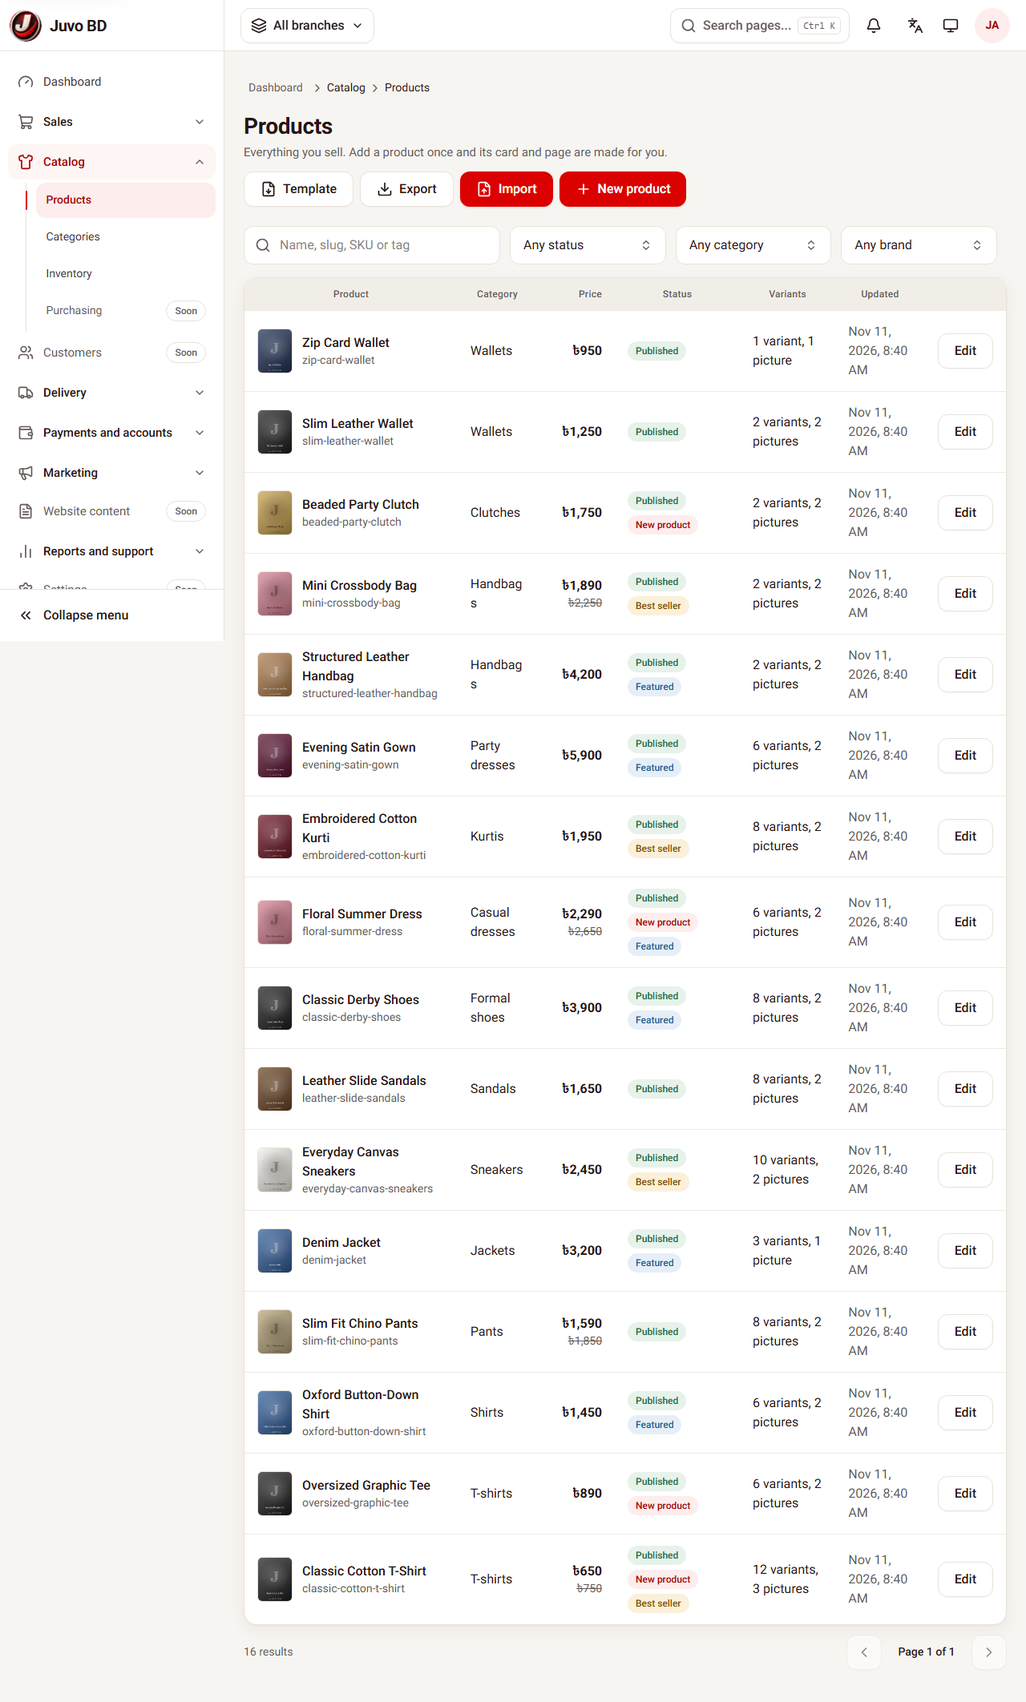
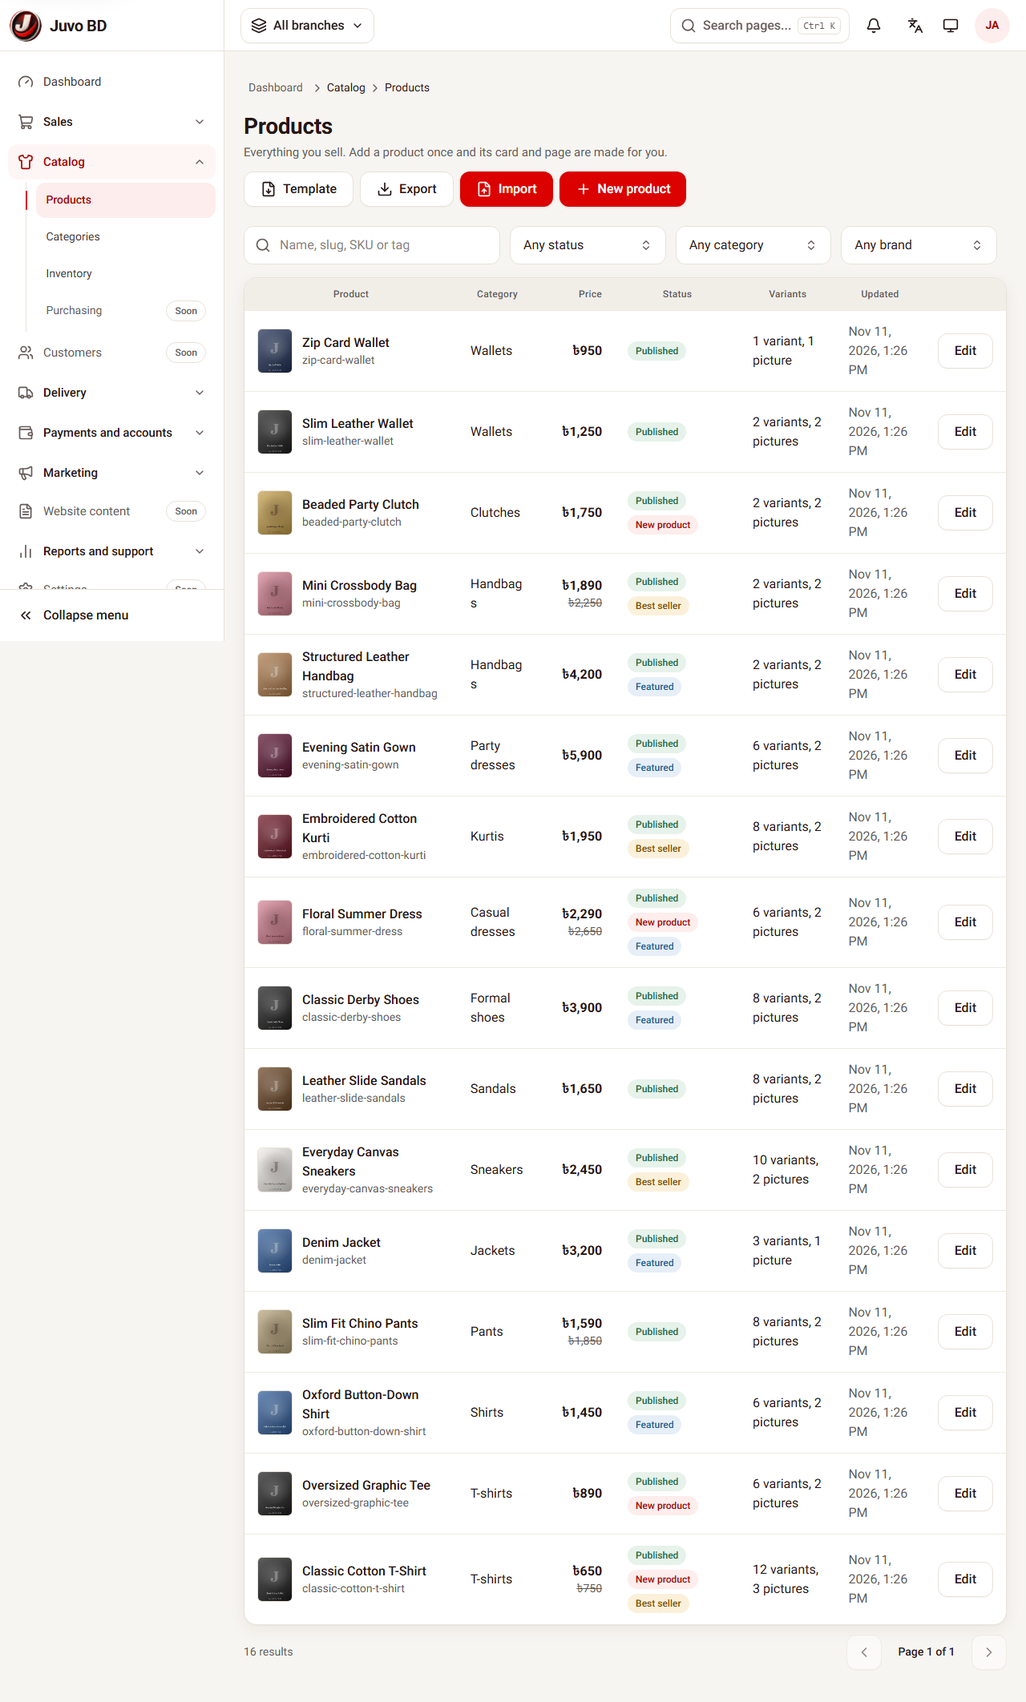
docs: record Step 7 gate result and refresh UI check screenshots

diff --git a/docs/understanding.md b/docs/understanding.md
@@ -409,16 +409,17 @@ Generated from `docs/source/brd-srs.md` by `scripts/gen_traceability.py` (257 FR
 | ID | Requirement | Pri | Step | Status | Implemented in (file / endpoint / page) | Notes |
 | --- | --- | --- | --- | --- | --- | --- |
 | FR-A01 | Home page with hero slider (admin-managed), featured categories, New Arrivals, Best Sellers, Sale section, brand story strip, social links,… | M | 7 | Not started | | |
-| FR-A02 | Category pages (Clothing, Shoes, Ladies' Dresses, Purses, and any category the admin adds) with sub-categories | M | 7 | Partial | API `GET /store/categories`, `/store/products?category=` | Backend of Step 7-a; pages in 7-b. |
-| FR-A03 | Product grid shows auto-designed premium cards (section 3.4); infinite scroll or "Load more" | M | 7 | Partial | API `GET /store/products` (paged cards with price, badges, swatches, sizes) | Backend only; the page is in 7-b. |
-| FR-A04 | Filters: category, price range, size, colour, brand, availability, discount; sort: newest, price low-high, price high-low, popularity | M | 7 | Partial | API `GET /store/products` filters category, price, size, colour, brand, inStock, onSale; sort newest, price-asc, price-desc, popular; `/products/facets` | Backend of Step 7-a; filter panel in 7-b. |
-| FR-A05 | Search with suggestions by name, category and SKU; tolerant of small spelling mistakes (Should) | M | 7 | Partial | API `GET /store/products?q=` (tolerates small spelling mistakes), `/store/search/suggest` | Name, tagline, tags, brand, category; SKU search not exposed publicly. UI in 7-b. |
-| FR-A06 | Product detail page: image gallery with zoom and swipe, optional video, variant selectors (colour, size), live stock note, price, delivery… | M | 7 | Partial | API `GET /store/products/{slug}` (variants with capped availability, pictures, size chart, related) | Backend only; the page is in 7-b. |
+| FR-A02 | Category pages (Clothing, Shoes, Ladies' Dresses, Purses, and any category the admin adds) with sub-categories | M | 7 | Done | API `GET /store/categories`, `/store/products?category=` | Backend of Step 7-a; pages in 7-b.  Front end: `src/modules/store`, `cart`, `myaccount` (Step 7-b); e2e store/cart/myaccount specs. |
+| FR-A03 | Product grid shows auto-designed premium cards (section 3.4); infinite scroll or "Load more" | M | 7 | Done | API `GET /store/products` (paged cards with price, badges, swatches, sizes) | Backend only; the page is in 7-b.  Front end: `src/modules/store`, `cart`, `myaccount` (Step 7-b); e2e store/cart/myaccount specs. |
+| FR-A04 | Filters: category, price range, size, colour, brand, availability, discount; sort: newest, price low-high, price high-low, popularity | M | 7 | Done | API `GET /store/products` filters category, price, size, colour, brand, inStock, onSale; sort newest, price-asc, price-desc, popular; `/products/facets` | Backend of Step 7-a; filter panel in 7-b.  Front end: `src/modules/store`, `cart`, `myaccount` (Step 7-b); e2e store/cart/myaccount specs. |
+| FR-A05 | Search with suggestions by name, category and SKU; tolerant of small spelling mistakes (Should) | M | 7 | Done | API `GET /store/products?q=` (tolerates small spelling mistakes), `/store/search/suggest` | Name, tagline, tags, brand, category; SKU search not exposed publicly. UI in 7-b.  Front end: `src/modules/store`, `cart`, `myaccount` (Step 7-b); e2e store/cart/myaccount specs. |
+| FR-A06 | Product detail page: image gallery with zoom and swipe, optional video, variant selectors (colour, size), live stock note, price, delivery… | M | 7 | Done | API `GET /store/products/{slug}` (variants with capped availability, pictures, size chart, related) | Backend only; the page is in 7-b.  Front end: `src/modules/store`, `cart`, `myaccount` (Step 7-b); e2e store/cart/myaccount specs. |
 | FR-A07 | Size guide popup per category (admin-editable table) | S | 7 | Not started | | |
 | FR-A08 | "Notify me when available" for sold-out variants (mobile or email) | S | 7 | Not started | | |
-| FR-A09 | Recently viewed products | C | 7 | Not started | | |
+| FR-A09 | Recently viewed products | C | 7 | Done | `src/modules/store/recently-viewed.tsx` | Browser storage only (Step 7-b). |
+
 | FR-A10 | Share product to Facebook, WhatsApp, copy link; clean URLs and social preview image | M | 7 | Not started | | |
-| FR-A11 | Language switch English / Bengali; currency display BDT, with optional conversion for international visitors | S | 7 | Not started | | |
+| FR-A11 | Language switch English / Bengali; currency display BDT, with optional conversion for international visitors | S | 7 | Partial | |  Step 7-b front end added (language switch, map pin with Use my location, cart page, account dashboard); address search and BDT conversion not built. |
 | FR-A12 | Customer-visible reviews with star rating and photos (only verified buyers can review) | S | 7 | Not started | | |
 | FR-B01 | Create/edit product: name (EN + optional BN), slug, category, sub-category, brand, short and long description, material, care, tags, gender… | M | 6 | Done | `/admin/products/new`, `/admin/products/{id}` (ProductEditor, ProductDetailsForm); API `/api/v1/catalog/products` | Steps 6-a and 6-e. |
 | FR-B02 | Variants: colour and size combinations, each with its own SKU, price override, stock quantity, barcode (optional), weight override | M | 6 | Done | Variants tab (ProductVariants: add, edit, remove, colour x size generator); stock quantity per branch in the stock grid | Step 6-e. |
@@ -434,11 +435,11 @@ Generated from `docs/source/brd-srs.md` by `scripts/gen_traceability.py` (257 FR
 | FR-B12 | Mark product as New, Featured, Best seller (manual or automatic rules) | M | 6 | Done | Labels card of the product form (New, Featured, Best seller; manual) | Automatic rules not built. |
 | FR-B13 | Product SEO fields: meta title, description, social image | S | 6 | Partial | Search and sharing tab (page title, description) | Social share image upload is not in the UI yet. |
 | FR-B14 | Every product change is written to the audit log (who, what, when, old/new) | M | 6 | Done | Audit interceptor; viewable in `/admin/ums/audit` | Step 6-a. |
-| FR-C01 | Add to cart from card (quick add) or product page with required variant selection | M | 7 | Partial | API `POST /store/cart/items` (variant and quantity) | Backend of Step 7-a; buttons in 7-b. |
-| FR-C02 | Cart drawer and full cart page: change quantity, remove, see line totals, subtotal, estimated delivery, coupon field | M | 7 | Partial | API `GET/PUT/DELETE /store/cart/*`, coupon, `/store/cart/delivery-quote` | Backend only; drawer and page in 7-b. |
-| FR-C03 | Cart is kept for guests (browser storage + server session) and merged into the account after sign-in | M | 7 | Partial | Guest cart by `X-Cart-Token` (hash stored), `POST /store/cart/merge` after sign-in | Backend of Step 7-a; the browser keeps the token in 7-b. |
-| FR-C04 | Quantity limited to available stock; clear message if stock changed since adding | M | 7 | Partial | CartService re-checks availability on every read (`REDUCED`, `OUT_OF_STOCK`, price-changed marker) | Backend of Step 7-a; messages in 7-b. |
-| FR-C05 | Wishlist (heart): guests keep it on the device; signed-in users keep it on the account; move wishlist item to cart | S | 7 | Partial | API `/me/wishlist` and `move-to-cart` (signed-in customers) | Guest wishlist on the device is front-end work in 7-b. |
+| FR-C01 | Add to cart from card (quick add) or product page with required variant selection | M | 7 | Done | API `POST /store/cart/items` (variant and quantity) | Backend of Step 7-a; buttons in 7-b.  Front end: `src/modules/store`, `cart`, `myaccount` (Step 7-b); e2e store/cart/myaccount specs. |
+| FR-C02 | Cart drawer and full cart page: change quantity, remove, see line totals, subtotal, estimated delivery, coupon field | M | 7 | Partial | API `GET/PUT/DELETE /store/cart/*`, coupon, `/store/cart/delivery-quote` | Backend only; drawer and page in 7-b.  Step 7-b front end added (language switch, map pin with Use my location, cart page, account dashboard); address search and BDT conversion not built. |
+| FR-C03 | Cart is kept for guests (browser storage + server session) and merged into the account after sign-in | M | 7 | Done | Guest cart by `X-Cart-Token` (hash stored), `POST /store/cart/merge` after sign-in | Backend of Step 7-a; the browser keeps the token in 7-b.  Front end: `src/modules/store`, `cart`, `myaccount` (Step 7-b); e2e store/cart/myaccount specs. |
+| FR-C04 | Quantity limited to available stock; clear message if stock changed since adding | M | 7 | Done | CartService re-checks availability on every read (`REDUCED`, `OUT_OF_STOCK`, price-changed marker) | Backend of Step 7-a; messages in 7-b.  Front end: `src/modules/store`, `cart`, `myaccount` (Step 7-b); e2e store/cart/myaccount specs. |
+| FR-C05 | Wishlist (heart): guests keep it on the device; signed-in users keep it on the account; move wishlist item to cart | S | 7 | Done | API `/me/wishlist` and `move-to-cart` (signed-in customers) | Guest wishlist on the device is front-end work in 7-b.  Front end: `src/modules/store`, `cart`, `myaccount` (Step 7-b); e2e store/cart/myaccount specs. |
 | FR-C06 | Abandoned cart reminder by SMS/email when mobile or email is known (admin can turn on) | C | 7 | Not started | | |
 | FR-C07 | Coupon codes: percentage or fixed, minimum order, expiry, usage limit | S | 7 | Done | Coupons: `/promotions/coupons` (staff), `/store/coupons/validate`, `/store/cart/coupon` | Percentage or fixed, minimum order, dates, usage limit. Use count rises in Step 8; admin screen in 7-b. |
 | FR-D01 | Checkout works with no account: mobile number plus the basic details (name, address, delivery area) are enough | M | 8 | Not started | | |
@@ -459,15 +460,15 @@ Generated from `docs/source/brd-srs.md` by `scripts/gen_traceability.py` (257 FR
 | FR-E04 | Sign-in options: mobile + OTP (default), email + OTP, email/mobile + password (if set), Google sign-in (Could) | M | 7 | Partial | POST /api/v1/auth/otp/request and /verify by mobile (SMS) or email | Password and Google sign-in later. |
 | FR-E05 | OTP rules: 6 digits, expires in 5 minutes, limited attempts and resend cooldown, rate-limited per number and device | M | 7 | Done | CustomerAuthService, OtpCode, rate limit policy otp | 6 digits, 5 min, 5 attempts, 60 s cooldown, hourly cap; tested. |
 | FR-E06 | Progressive profile: ask for extra fields one at a time later, never block an order for them | S | 7 | Not started | | |
-| FR-E07 | Consent checkboxes for marketing SMS/email, stored with timestamp; transactional messages always allowed | M | 7 | Partial | API `GET/PUT /me/consent` (timestamped log) | Checkbox UI in 7-b. |
+| FR-E07 | Consent checkboxes for marketing SMS/email, stored with timestamp; transactional messages always allowed | M | 7 | Done | API `GET/PUT /me/consent` (timestamped log) | Checkbox UI in 7-b.  Front end: `src/modules/store`, `cart`, `myaccount` (Step 7-b); e2e store/cart/myaccount specs. |
 | FR-E08 | Customer can delete their account; order records are kept in anonymised form for legal and accounting needs | S | 7 | Not started | | |
 | FR-E09 | Fraud signals: many orders from one device with different numbers, repeated fake/returned COD, flagged for admin review | C | 7 | Not started | | |
-| FR-F01 | Dashboard: active orders with live status, recent orders, wishlist preview, saved addresses | M | 7-8 | Partial | API `GET /me/summary`, `/me/addresses`, `/me/wishlist` | Orders part in Step 8; UI in 7-b. |
+| FR-F01 | Dashboard: active orders with live status, recent orders, wishlist preview, saved addresses | M | 7-8 | Partial | API `GET /me/summary`, `/me/addresses`, `/me/wishlist` | Orders part in Step 8; UI in 7-b.  Step 7-b front end added (language switch, map pin with Use my location, cart page, account dashboard); address search and BDT conversion not built. |
 | FR-F02 | My Orders: list with filters (active, delivered, cancelled, returned); order detail with items, amounts, payment status, delivery timeline,… | M | 8 | Not started | | |
 | FR-F03 | Live order tracking page with timeline and map-style progress (module J) | M | 10 | Not started | | |
 | FR-F04 | Cancel an order while allowed (before courier pickup); request a return within the return window (module L) | M | 8 | Not started | | |
-| FR-F05 | Address book: add, edit, delete, set default; each address with a pinned map location | M | 7-8 | Partial | API `/me/addresses` (add, edit, delete, default; optional latitude and longitude) | Map picker UI in 7-b. |
-| FR-F06 | Profile: name, mobile, email, photo, password, language, notification preferences | M | 7-8 | Partial | API `GET/PUT /me` (name, email) | Photo, password, language and notification preferences later. |
+| FR-F05 | Address book: add, edit, delete, set default; each address with a pinned map location | M | 7-8 | Done | API `/me/addresses` (add, edit, delete, default; optional latitude and longitude) | Map picker UI in 7-b.  Front end: `src/modules/store`, `cart`, `myaccount` (Step 7-b); e2e store/cart/myaccount specs. |
+| FR-F06 | Profile: name, mobile, email, photo, password, language, notification preferences | M | 7-8 | Partial | API `GET/PUT /me` (name, email) | Photo, password, language and notification preferences later.  Step 7-b front end added (language switch, map pin with Use my location, cart page, account dashboard); address search and BDT conversion not built. |
 | FR-F07 | Reorder: add all items of a past order to cart (checks stock and current price) | S | 7-8 | Not started | | |
 | FR-F08 | Wishlist and back-in-stock requests | S | 7-8 | Partial | API `/me/wishlist` | Back-in-stock requests not built. |
 | FR-F09 | Write a review for delivered items | S | 7-8 | Not started | | |
@@ -475,7 +476,7 @@ Generated from `docs/source/brd-srs.md` by `scripts/gen_traceability.py` (257 FR
 | FR-F11 | Help: contact the shop by phone/WhatsApp/message from an order page | S | 7-8 | Not started | | |
 | FR-G01 | Country selector (all countries; admin can enable/disable countries for shipping) | M | 7 | Partial | API `GET /store/geo/countries`; staff `GET/POST/PUT /delivery/countries` enable and zone | 24 countries seeded (Bangladesh and India enabled); selector UI in 7-b. |
 | FR-G02 | Bangladesh address uses the administrative hierarchy Division, District, Upazila/Thana, Union/Area, then house/road/landmark. Data loaded f… | M | 7 | Partial | API `/store/geo/divisions`, `/districts`, `/districts/{id}/upazilas`; data from nuhil/bangladesh-geocode (MIT) | 8 / 64 / 494 loaded; the union/area level is free text (`area`). |
-| FR-G03 | Map selection: customer searches an address, drops or drags a pin, or taps "Use my current location"; system fills address fields from the… | M | 7 | Not started | | |
+| FR-G03 | Map selection: customer searches an address, drops or drags a pin, or taps "Use my current location"; system fills address fields from the… | M | 7 | Partial | |  Step 7-b front end added (language switch, map pin with Use my location, cart page, account dashboard); address search and BDT conversion not built. |
 | FR-G04 | Address autocomplete while typing; customer can correct fields manually when the map guess is wrong (common in Bangladesh) | M | 7 | Not started | | |
 | FR-G05 | Validate that the pin lies inside the selected district/country; warn if not | S | 7 | Not started | | |
 | FR-G06 | International address form adapts to country (state/province, postal code, phone code) | M | 7 | Partial | Address API: abroad needs country and city, optional state and postal code; country phone codes | Adaptive form in 7-b. |

diff --git a/PROGRESS.md b/PROGRESS.md
@@ -13,8 +13,8 @@ Last updated: 2026-11-10.
 | 4 | Front-end foundation, brand, login, token handling | **Done** (branch `feature/04-front-foundation`, merged to `main`) |
 | 5 | UMS user interface | **Done** (branch `feature/05-ums-ui`) |
 | 6 | Catalog, media, branch-wise inventory | **Done** (6-a to 6-e; branch `feature/06-catalog-inventory`, not yet merged to `main`) |
-| 7 | Storefront, cart, customer identity, address, delivery zones | In progress (7-a backend done; 7-b front end next) |
-| 8 | Checkout, orders, order processing | Not started |
+| 7 | Storefront, cart, customer identity, address, delivery zones | **Done** (7-a backend, 7-b front end; gated 2026-11-11) |
+| 8 | Checkout, orders, order processing | In progress |
 | 9 | Payments, tax/invoices, notifications | Not started |
 | 10 | Couriers, real-time status, returns | Not started |
 | 11A | Operations part 1: purchasing, expenses, support, reports | Not started |
@@ -106,14 +106,16 @@ Split (the step is too large for one session); each sub-step has its own gate an
 
 **6-e gate (run and seen):** `npx tsc --noEmit` clean; `npm run lint` clean; `npm test` 39 passed; `npm run build` succeeds; `npm run test:e2e` (desktop, tablet, Android, iPhone): **237 passed, 3 skipped (desktop-only tests on other profiles), 1 failed** = a timing flake in the inventory spec (a strict row locator saw two ledger rows before the filter applied); fixed in the spec and the inventory spec re-run: 6 of 6 passed (the "4 did not run" of that run were its later tests). New real-browser flows: product create to publish (preview, validation, variants, stock, pictures, focal point, reorder, duplicate, view-only role), categories/brands/size charts, import check and import with a bad file, inventory adjust, transfer, reject/cancel, stock count, view-only role. UI checks at 360 / 768 / 1280 px on every new page: no sideways scroll, no tap target under 44 px, no axe violations, no console errors (all passed after fixes found by these checks: switch hit areas, a crowded filter row, a long button at 360 px, a stacked action column, a focusable scroll region in the shared table). Backend unchanged in this step (build 0 warnings; domain 94, application 23, integration 190 as in 6-d). Key screenshots: `juvo-front/docs/ui-checks/`.
 
-## Step 7 (in progress): storefront, cart, customer account, delivery
+## Step 7 (done): storefront, cart, customer account, delivery
 
 | Sub-step | Scope | Status |
 | --- | --- | --- |
 | 7-a | Backend: public catalog and search, cart and coupons, customer account (profile, consent, addresses, wishlist), staff customer view, delivery zones and geography | **Done** (branch `feature/07-storefront-backend`) |
-| 7-b | Front end: storefront, cart, checkout address and map, customer account, admin screens for coupons, zones and customers | Not started |
+| 7-b | Front end: storefront, cart, customer account (profile, consent, addresses with map pin, wishlist), customer sign-in by SMS or email | **Done** (admin screens for coupons, zones and customers move to Step 12) |
 
 **7-a result:** public `/store/*` (categories, home, products with filters/sort/fuzzy search, facets, suggestions, product detail, geography, delivery quote, coupon check, cart with guest token and merge), customer `/me/*`, staff `/customers`, `/promotions/coupons`, `/delivery/*`. Migration `StorefrontCartCustomersDelivery`. Geography from `nuhil/bangladesh-geocode` (MIT): 8 divisions, 64 districts, 494 upazilas. The seeded delivery zones and rates are **placeholders** the owner must replace. Contract: `docs/storefront-api.md`; decisions: `docs/assumptions.md` section K.
+
+**7-b result:** pages `/`, `/shop`, `/search`, `/category/...`, `/product/[slug]`, `/cart`, `/account/{profile,addresses,wishlist}`; header with search suggestions and category menu; filters with chips; infinite grid; gallery; delivery estimate; coupon; guest cart in the httpOnly cookie `juvo_cart`, merged at sign-in; English and Bengali (Bengali first pass). Gate: tsc, eslint, vitest 44, build clean; full Playwright run 299 passed, 8 skipped, 4 failed (SQL and 45 s timeouts under load in a 1.5 h run; all 4 passed on re-run); overflow, 44 px tap targets and axe checks at 360/768/1280. Known gaps: size-guide popup, notify-me, share buttons, address search, BDT conversion; delivery rates are placeholders.
 
 ## How to run now
 
@@ -129,7 +131,7 @@ cd juvo-front; npm test; npm run build; npm run test:e2e
 
 ## Next step
 
-**Step 7: Storefront, cart, customer identity, address and delivery zones** (modules A, C, E, F, G). First merge `feature/06-catalog-inventory` into `main` once you have looked at the catalog and inventory screens. Orders, purchasing and the other branch data adopt `IBranchScoped` the way stock does.
+**Step 8: Checkout, orders and order processing** (modules D, S, T basics, J basics). Orders, stock reservation and the other branch data adopt `IBranchScoped` the way stock does.
 
 ## Known issues / notes
 

diff --git a/docs/assumptions.md b/docs/assumptions.md
@@ -205,3 +205,14 @@ Last updated: 2026-11-02 (Step 1).
 | **A deactivated customer's access token keeps working until it expires** (15 minutes); only refresh and new sign-ins are refused. | Access tokens are not checked against the session table on every request (Step 3 design). | n/a |
 | **One migration for the whole step** (`StorefrontCartCustomersDelivery`): geography, delivery, addresses, wishlist, consent log, carts, coupons and `Customers.IsActive` (default true for existing rows). | A single reviewable change. | n/a |
 | **Deferred:** customer account deletion (FR-E08), abandoned-cart reminders, a per-courier delivery override, a cleanup job for expired carts, orders in `/me/summary` (zero until Step 8), coupon use counting (Step 8), product reviews. | Not needed to shop; scheduled in later steps. | n/a |
+
+## L. Step 7-b (storefront front end) decisions
+
+| Decision | Reason | How to change |
+| --- | --- | --- |
+| Guest cart token lives in the httpOnly cookie `juvo_cart` (30 days); the BFF adds `X-Cart-Token` and strips the token from answers; sign-in merges the cart and clears the cookie | Page scripts never hold the token; one place handles it | `src/app/api/bff/[...path]/route.ts`, `src/lib/auth/cookies.ts` |
+| Recently viewed is kept in browser storage only | No account data needed; works for guests | `src/modules/store/recently-viewed.tsx` |
+| Product cards: link name is hidden text, badges stay visible | WCAG label-in-name | `store-product-card.tsx` |
+| `mediaUrl` lives in `src/lib/media.ts` (server and client safe) | A client-only module cannot be called by server pages | n/a |
+| Bengali storefront texts are a first pass | Native review is planned for Step 12 | `src/messages/*.bn.json` |
+| Delivery rates and zones remain placeholders | Owner must supply real values | Admin delivery screens (Step 12) |

diff --git a/CLAUDE.md b/CLAUDE.md
@@ -106,8 +106,8 @@ Conventions: `Result<T>` with stable codes (`AREA.REASON`) for expected failures
 | 4 | Front-end foundation, brand, login, tokens | Done |
 | 5 | UMS UI | Done |
 | 6 | Catalog, media, branch inventory (6-a…6-e) | **Done** (gated 2026-11-10) on `feature/06-catalog-inventory`, not yet merged to `main` |
-| 7 | Storefront, cart, customer identity, address, delivery zones (modules A, C, E, F, G) | **Next** |
-| 8 | Checkout, orders, order processing, social desk, fraud basics (D, S, T, J) | Not started |
+| 7 | Storefront, cart, customer identity, address, delivery zones (modules A, C, E, F, G) | **Done** (gated 2026-11-11) |
+| 8 | Checkout, orders, order processing, social desk, fraud basics (D, S, T, J) | **In progress** |
 | 9 | Payments, tax/invoices, notifications (I, U, K) | Not started |
 | 10 | Couriers, real-time (SignalR), returns (H, J, L) | Not started |
 | 11A | Purchasing, expenses, support, reports (W, X, Y, P) | Not started |
